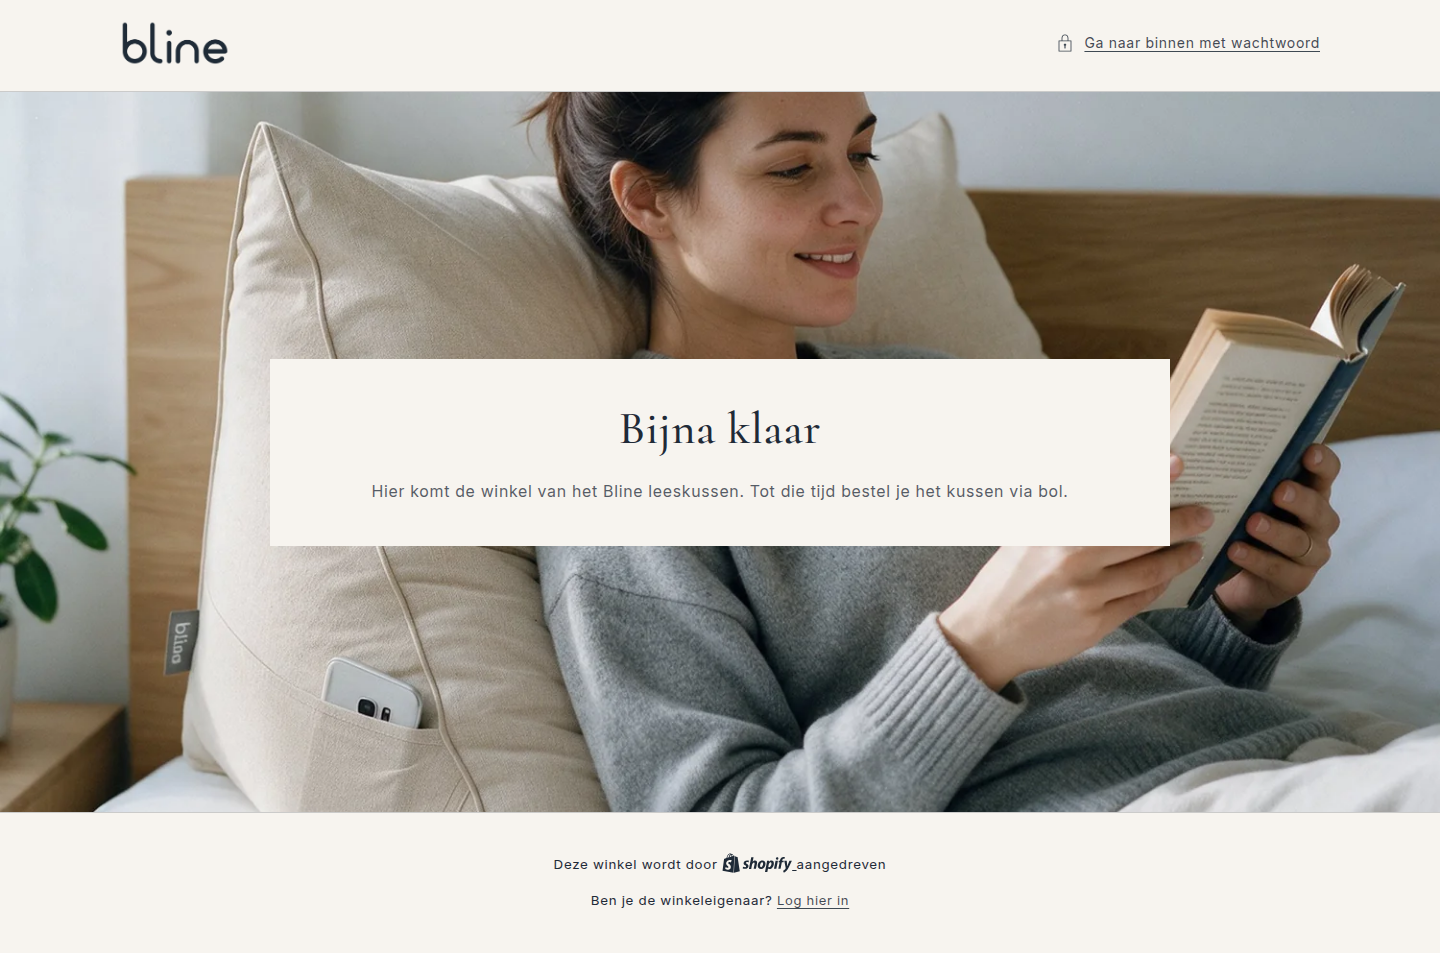
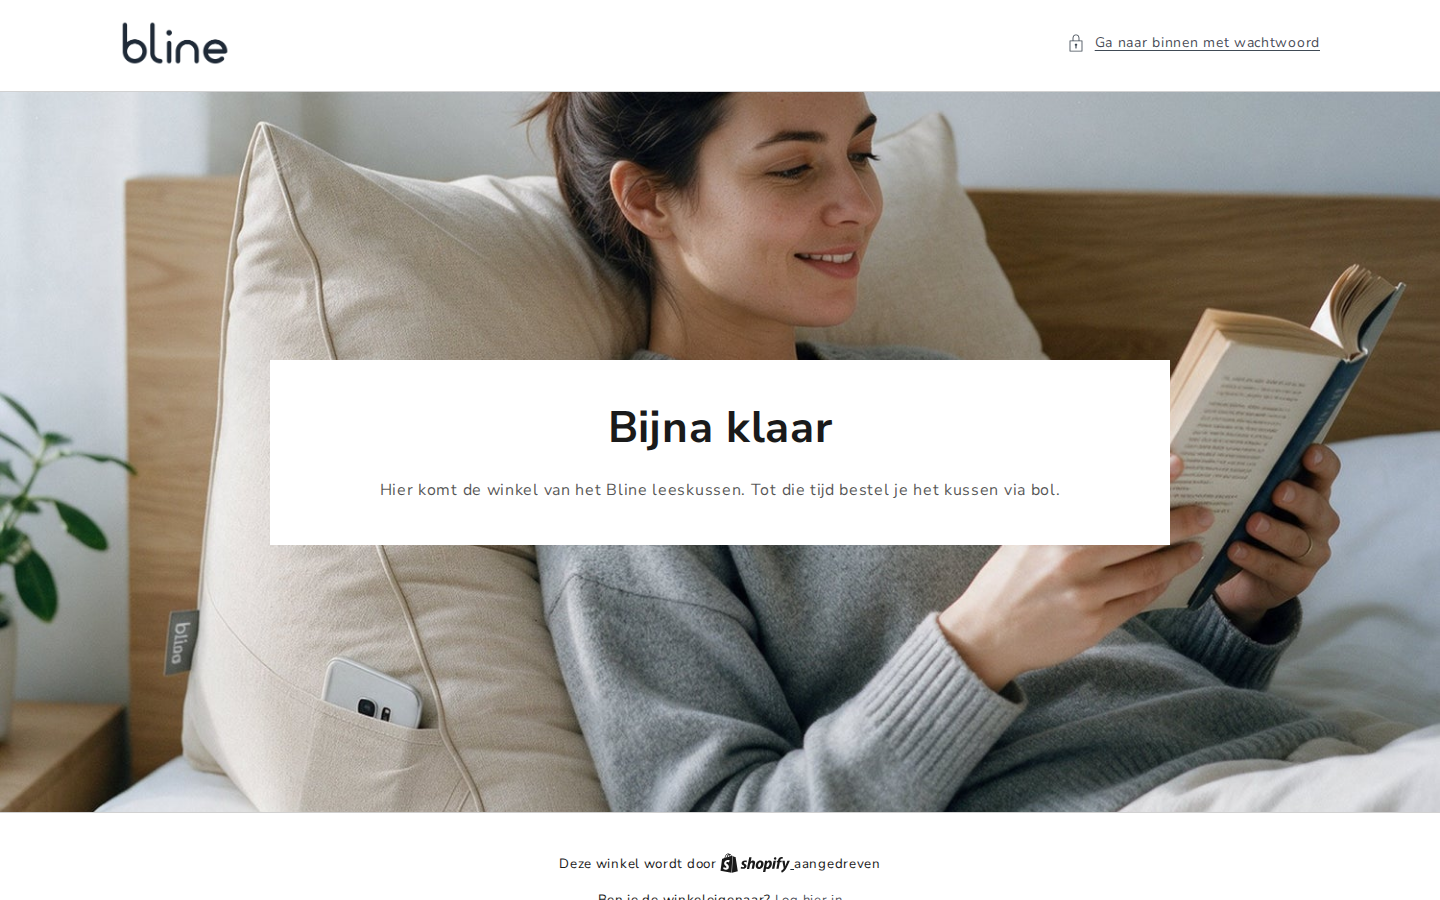
Bline shop: restyle naar wit, inktblauw en Nunito Sans, teksten in winkeltaal
Dawn: kleurschema's wit en lichtgrijs met inktblauw voor balk, knoppen en
voettekst; Nunito Sans; knoppen 6 px. Homepage met foto, korte kop en Shop nu;
productpagina met vier vinkjes, korte beschrijving en kenmerken als lijst.
Balk met bol-score en bron in het logboek. Teksten en logboek sessie 5.

Claude-Session: https://claude.ai/code/session_01SuGHz7dsGz2S2x1mKQE8CB

diff --git a/reports/bijlagen/Bline shop teksten.md b/reports/bijlagen/Bline shop teksten.md
@@ -1,28 +1,29 @@
-# Bline shop: teksten (stand 5 oktober 2026)
+# Bline shop: teksten (stand 5 oktober 2026, sessie 5)
 
-Alle teksten zoals ze in de winkel staan. Bron voor de stijlcontrole. Geschreven volgens de schrijfstijlgids (hoofdstuk 7 van `webshop_themas_en_schrijfstijl.md`).
+Alle teksten zoals ze in de winkel staan. Bron voor de stijlcontrole. Geschreven volgens de schrijfstijlgids (hoofdstuk 7 van `webshop_themas_en_schrijfstijl.md`) en de aanvulling "Taal" in `look_and_feel_env_stores.md`: kort, winkeltaal, feiten in lijstjes.
 
 ## Aankondigingsbalk
 
-Gratis verzending in Nederland en België. Binnen 1-2 werkdagen in huis.
+GRATIS VERZENDING NL EN BE | BINNEN 1-2 WERKDAGEN IN HUIS | 4,5 UIT 5 OP BOL.COM
+
+Bron van de score: bol Ratings API, 05-10-2026, 13 reviews op de productfamilie (9 x 5, 3 x 4, 1 x 2), gemiddeld 4,54.
+
+## Vier vinkjes (onder de knop, en als balk op de homepage)
+
+- Gratis verzending in NL en BE
+- Binnen 1-2 werkdagen in huis
+- Hoes wasbaar op 30 °C
+- 14 dagen bedenktijd
 
 ## Homepage
 
-Paginatitel: Bline leeskussen | Lezen in bed, zonder kussenfort
+Paginatitel: Leeskussen met vak voor je boek | Bline
 
-Metabeschrijving: Leeskussen met 3,8 kg traagschuim, een wasbare katoenen hoes en een vak voor je boek. Vijf kleuren. Gratis verzending in NL en BE.
+Metabeschrijving: Leeskussen met 3,8 kg traagschuim en een katoenen hoes die in de was kan. Vijf kleuren. Gratis verzending in NL en BE, binnen 1-2 werkdagen in huis.
 
-Kop: Lezen in bed, zonder kussenfort.
+Grote foto (beige, vrouw met boek). Kop: RECHTOP LEZEN IN BED. Knop: Shop nu (naar de productpagina).
 
-Ondertitel: Een leeskussen met een vak voor je boek. In vijf kleuren.
-
-**Zondagochtend.** Koffie erbij, boek open. Je zit rechtop en hoeft niet steeds je kussens op te schudden.
-
-**Het blijft staan.** Een wig van 65 cm breed met 3,8 kg traagschuim. Opzij zit een vak voor je boek of je bril.
-
-**Wat je krijgt.** Het kussen met een katoenen hoes in je kleur. Gratis bezorgd in Nederland en België, binnen 1-2 werkdagen.
-
-Daarna: het leeskussen als uitgelicht product, het blok "Waarom dit kussen" en zes vragen (sessie 3).
+Daarna: het leeskussen als uitgelicht product, de vier vinkjes, "Kenmerken" (lijst uit de metafields) en "Veelgestelde vragen" (zes vragen, zie productpagina).
 
 ## Productpagina leeskussen
 
@@ -30,15 +31,36 @@ Paginatitel: Leeskussen met vak voor je boek | Bline
 
 Metabeschrijving: Leeskussen van 65 x 50 x 45 cm met 3,8 kg traagschuim en een katoenen hoes die in de was kan. Vijf kleuren. Gratis verzending in NL en BE.
 
-Je kent het. Twee kussens achter je, eentje erbij gepropt, en na tien minuten lig je weer half. Dit kussen blijft staan.
+Volgorde: titel, prijs, kleurkeuze, knop "In winkelwagen", vier vinkjes, "Beschrijving", "Kenmerken".
 
-Het is een wig van 65 cm breed en 50 cm hoog, met 3,8 kg traagschuim erin. Leun je ertegenaan, dan zak je er niet doorheen. Opzij zit een vak voor je boek of je bril.
+**Beschrijving**
 
-De hoes is van katoen en gaat met een onzichtbare rits los. Hij kan op 30 °C in de wasmachine. Een tweede hoes is los te koop.
+Een stevig leeskussen met een vak opzij voor je boek, bril of telefoon. Binnenin zit 3,8 kg traagschuim, dus het kussen blijft staan als je leunt. De katoenen hoes gaat er met een rits af en kan op 30 °C in de was. Rechtop lezen in bed, zonder gedoe. Net uitgepakt? Laat het 24 tot 48 uur luchten.
 
-Net uitgepakt? Laat het kussen 24 tot 48 uur luchten en schud het een keer op.
+**Kenmerken** (uit de metafields)
 
-Hij past niet in je handbagage. Wel achter je in bed.
+- Afmetingen: 65 x 50 x 45 cm (breed x hoog x diep)
+- Vulling: Traagschuim (memory foam), stevig
+- Hoes: 100% katoen, 400 TC; onzichtbare rits, volledig afneembaar; zijvak voor boek, bril of telefoon
+- Wassen: hoes machinewas 30 °C, normaal programma; niet bleken; niet in de droger
+- Gewicht: 3,9 kg, waarvan 3,8 kg vulling
+- In de doos: 1 leeskussen met hoes in de gekozen kleur; gebruiks- en wasinstructie
+
+**Goed om te weten** (grijs vlak)
+
+- Stevig: 3,8 kg traagschuim. Je zakt er niet doorheen als je leunt.
+- Wasbare hoes: Rits de hoes eraf en was hem op 30 °C. Een tweede hoes is los te koop.
+- Maat: 65 cm breed, 50 cm hoog en 45 cm diep. Meet je bed even op voor je bestelt.
+- Kleur: Vijf kleuren. Valt de kleur thuis anders uit, dan heb je 14 dagen bedenktijd.
+
+**Veelgestelde vragen** (ook op de homepage en bij de hoes)
+
+- Hoe snel heb ik het kussen? Binnen 1-2 werkdagen, in Nederland en België. Verzending is gratis.
+- Kan de hoes in de was? Ja, op 30 °C, normaal programma. Niet bleken en niet in de droger.
+- Hoe stevig is het kussen? Stevig: 3,8 kg traagschuim. Laat het na het uitpakken 24 tot 48 uur luchten en schud het op.
+- Is er een losse hoes? Ja, in dezelfde vijf kleuren.
+- Wat zit er in de doos? Het leeskussen met de hoes in je kleur en een gebruiks- en wasinstructie.
+- Kan ik het terugsturen? Ja, binnen 14 dagen na ontvangst. Mail ons, dan krijg je het retouradres. De kosten voor het terugsturen zijn voor jou.
 
 ## Productpagina losse hoes
 
@@ -46,11 +68,11 @@ Paginatitel: Losse hoes voor het leeskussen | Bline
 
 Metabeschrijving: Katoenen hoes (400 TC) met onzichtbare rits voor het Bline leeskussen. Wasbaar op 30 °C. Vijf kleuren. Gratis verzending in NL en BE.
 
-Een losse hoes voor het Bline leeskussen. Handig als de ene in de was zit, of als je een andere kleur wilt.
+Zelfde opbouw als het leeskussen (vier vinkjes, Beschrijving, Kenmerken, vragen), zonder "Goed om te weten".
 
-De hoes is van 100% katoen (400 TC) en heeft een onzichtbare rits. Opzij zit hetzelfde vak voor je boek of je bril. Wassen kan op 30 °C, normaal programma. Niet bleken en niet in de droger.
+**Beschrijving**
 
-Alleen de hoes, zonder kussen.
+Een losse hoes voor het Bline leeskussen, in vijf kleuren. Van 100% katoen (400 TC), met een onzichtbare rits en een vak opzij. Wasbaar op 30 °C. Handig om te wisselen als de andere in de was zit. Alleen de hoes, zonder kussen.
 
 ## Pagina Over Bline (/pages/over-bline)
 
@@ -58,21 +80,22 @@ Paginatitel: Over Bline | Bline
 
 Metabeschrijving: Bline is een klein bedrijf uit Borne. We verkopen een leeskussen met een wasbare hoes, in vijf kleuren.
 
-Lezen in bed klinkt gezellig. Tot je voor de derde keer je kussens opschudt en het hoofdstuk nog steeds niet uit is.
-
-Daarom verkopen we dit leeskussen. Een wig met 3,8 kg traagschuim, die blijft staan als je ertegenaan leunt. De hoes gaat eraf en kan in de was.
+Bline verkoopt een leeskussen met een vak voor je boek. We zijn een klein bedrijf uit Borne, in Overijssel.
 
 #### Wie we zijn
 
-Bline is een klein bedrijf uit Borne, in Overijssel. Het kussen verkopen we al via bol. Nu kun je het ook hier bestellen, bij ons zelf.
+Het kussen verkopen we al via bol. Nu kun je het ook hier bij ons bestellen.
 
-De kussens liggen in een magazijn in Vianen. Daar pakken ze je bestelling in en geven ze hem mee aan de bezorger.
+De kussens liggen in een magazijn in Vianen. Daar wordt je bestelling ingepakt en meegegeven aan de bezorger.
 
-#### Wat we beloven
+#### Wat je van ons krijgt
 
-Alleen wat we kunnen nakomen. Je kussen is binnen 1-2 werkdagen in huis. Bevalt hij niet, dan heb je 14 dagen om van gedachten te veranderen.
+- Gratis verzending in NL en BE
+- Binnen 1-2 werkdagen in huis
+- Hoes wasbaar op 30 °C
+- 14 dagen bedenktijd
 
-Een vraag of een opmerking? Mail naar mail@blinesleep.nl. Je krijgt antwoord van een mens.
+Een vraag? Mail naar mail@blinesleep.nl. We antwoorden op werkdagen.
 
 ## Pagina Verzending (/pages/verzending)
 
@@ -80,7 +103,9 @@ Paginatitel: Verzending | Bline
 
 Metabeschrijving: Gratis verzending in Nederland en België. Je bestelling is binnen 1-2 werkdagen in huis, met track & trace.
 
-Verzending is gratis in Nederland en België. Je bestelling is binnen 1-2 werkdagen in huis.
+- Gratis verzending in Nederland en België
+- Binnen 1-2 werkdagen in huis
+- Met track & trace
 
 #### Hoe het gaat
 
@@ -98,7 +123,7 @@ Via de track & trace kies je vaak een ander moment of een afhaalpunt. Dat versch
 
 #### Pakket beschadigd?
 
-Maak een foto en mail die naar mail@blinesleep.nl, met je bestelnummer. Dan lossen we het op.
+Maak een foto en mail die naar mail@blinesleep.nl, met je bestelnummer. We zoeken dan samen een oplossing.
 
 #### Goed om te weten
 
@@ -110,7 +135,7 @@ Paginatitel: Retourneren | Bline
 
 Metabeschrijving: Je hebt 14 dagen bedenktijd. Zo stuur je je leeskussen terug en krijg je je geld binnen 14 dagen terug.
 
-Valt het kussen thuis anders uit dan je dacht? Je hebt 14 dagen bedenktijd, vanaf de dag dat je het ontvangt.
+Je hebt 14 dagen bedenktijd, vanaf de dag dat je het kussen ontvangt.
 
 #### Zo stuur je iets terug
 

diff --git a/reports/Bline shop opbouw logboek.md b/reports/Bline shop opbouw logboek.md
@@ -365,3 +365,88 @@ Shopify heeft geen API voor de meldingen. De standaard Nederlandse meldingen geb
 9. **Cookiemelding**: Shopify Customer Privacy-banner voor de EU aanzetten (Instellingen > Klantprivacy).
 10. OEKO-TEX-nummer, gewicht van de losse hoes, bol-reviewscore met bron (voor de homepage).
 11. **"Live"**: wachtwoord uit. Pas daarna Merchant Center en advertenties, met apart akkoord.
+
+## 5 oktober 2026, sessie 5: restyle naar de stijl van echte webshops
+
+Opdracht: de tabel "Besluit voor Bline" uit `research_notes/Bline Sleep risicos en voorbeelden/look_and_feel_env_stores.md` volledig uitvoeren in het gepubliceerde Dawn-thema, en de teksten herschrijven volgens "Taal: aanvulling op de schrijfstijlgids".
+
+Toegang: de vaste winkelnaam die Joost doorgaf (niet de waarde in `BLINE_SHOPIFY_STORE`), sleutel via client credentials met `BLINE_SHOPIFY_CLIENT_ID` en `BLINE_SHOPIFY_CLIENT_SECRET`. Alleen de namen gecontroleerd. Geen SHOPIFY_*- of BOL_*-variabelen gebruikt. Vooraf een kopie gemaakt van alle thema-bestanden die zijn aangepast.
+
+### Kleuren en letter (Dawn, thema-instellingen)
+
+| Kleurschema | Achtergrond | Tekst | Knop | Gebruikt voor |
+|---|---|---|---|---|
+| scheme-1 | #FFFFFF | #1A1A1A | #1F2A37, witte tekst | standaard, product, header |
+| scheme-2 | #F4F4F2 | #1A1A1A | #1F2A37, witte tekst | tweede vlak (vinkjes, "Goed om te weten", vragen) |
+| scheme-3 | #1F2A37 | #FFFFFF | wit | aankondigingsbalk en voettekst |
+| scheme-4 | #FFFFFF | #1A1A1A | #1F2A37 | kaarten, meelopende knop |
+| scheme-5 | #1F2A37 | #FFFFFF | wit | labels (was salie #5F6E58) |
+| scheme-6 (nieuw) | #1F2A37 | #FFFFFF | #1F2A37, witte tekst | grote foto op de homepage: witte kop op de foto, inktblauwe knop |
+
+- Crème (#F7F4EF, #FCFAF6), zand (#F1EBE1) en salie (#5F6E58) staan nergens meer, ook niet in `bline.css` of de eigen secties (gecontroleerd met een zoekopdracht over alle thema-bestanden). Goud kwam in het thema niet voor. De kleurcodes van de kleurbolletjes (Wit, Beige, Blauw, Grijs, Zwart) zijn productkleuren en blijven.
+- Letter: **Nunito Sans** uit de Shopify-bibliotheek (bestaat, gecontroleerd op de wachtwoordpagina). Koppen `nunito_sans_n7` (700), tekst `nunito_sans_n4`. Cormorant en Inter zijn weg.
+- Korte koppen in hoofdletters met wat letterafstand: de kop op de foto, sectiekoppen (Kenmerken, Veelgestelde vragen, Goed om te weten, Beschrijving), koppen in de voettekst en de balk.
+- Knoppen: 6 px hoeken, effen inktblauw met witte tekst, geen rand. Kleurkeuze-knoppen, invoervelden, kaarten, beelden en labels ook 6 px (was 14 en 40).
+
+### Homepage
+
+Volgorde nu: grote foto, product, vier vinkjes, kenmerken, vragen.
+
+- Grote foto (beige, vrouw met boek) met kop **RECHTOP LEZEN IN BED** en één knop **Shop nu** naar de productpagina. Ondertitel weg. Witte tekst op de foto (30% donkere laag), ook op mobiel.
+- De drie vetgedrukte blokken (Zondagochtend / Het blijft staan / Wat je krijgt) zijn weg, net als "Waarom dit kussen".
+- Het leeskussen als uitgelicht product, daarna een grijze balk met de vier vinkjes, daarna "Kenmerken" (nieuwe sectie `bline-kenmerken`, leest de metafields) en zes korte vragen.
+- Paginatitel "Leeskussen met vak voor je boek | Bline" (was "... zonder kussenfort").
+
+### Aankondigingsbalk
+
+`GRATIS VERZENDING NL EN BE | BINNEN 1-2 WERKDAGEN IN HUIS | 4,5 UIT 5 OP BOL.COM`, in hoofdletters, vet, op inktblauw.
+
+**Bron van de score:** bol Ratings API, opgevraagd 05-10-2026: 13 reviews op de productfamilie van het Bline leeskussen. Verdeling 9 x 5 sterren, 3 x 4, 1 x 2. Gemiddeld 4,54, afgerond 4,5 uit 5. Geen reviewteksten overgenomen. Bij elke nieuwe stand van de reviews opnieuw nalezen.
+
+### Productpagina (leeskussen en hoes)
+
+- Volgorde: titel, prijs, kleurkeuze, knop, **vier vinkjes** (Gratis verzending in NL en BE / Binnen 1-2 werkdagen in huis / Hoes wasbaar op 30 °C / 14 dagen bedenktijd), **Beschrijving** (5 korte zinnen), **Kenmerken** als lijst uit de metafields.
+- De losse levertijdregel met vrachtwagen boven de kleurkeuze is weg, want hij herhaalde het tweede vinkje. Het tweede vinkje leest dezelfde instelling (thema-instellingen > Bline > levertijdtekst). De snippet `bline-levertijd` met de datumregel blijft bestaan, maar staat nergens meer. Gaat de datumregel later aan (akkoordpunt 5), dan komt hij in de plaats van het tweede vinkje.
+- De aparte tabel "Specificaties" is vervangen door de lijst "Kenmerken" in de productkolom. De oude sectie `bline-specificaties` is verwijderd.
+- "Waarom dit kussen" heet nu "Goed om te weten", met korte koppen (Stevig, Wasbare hoes, Maat, Kleur) en één of twee zinnen per punt.
+- Vragen ingekort tot één of twee zinnen. De hoes toont dezelfde zes vragen.
+
+### Teksten
+
+Herschreven (alleen toon, zie `reports/bijlagen/Bline shop teksten.md`):
+
+| Waar | Weg | Nu |
+|---|---|---|
+| Beschrijving leeskussen | "Je kent het. Twee kussens achter je...", "Hij past niet in je handbagage. Wel achter je in bed." | 5 korte zinnen met de feiten |
+| Beschrijving hoes | 3 alinea's | 5 korte zinnen |
+| Over Bline | "Lezen in bed klinkt gezellig. Tot je...", "Je krijgt antwoord van een mens." | wie we zijn, vier vinkjes als lijst, "We antwoorden op werkdagen." |
+| Verzending | openingszin | lijstje (gratis NL en BE, 1-2 werkdagen, track & trace); "Dan lossen we het op" wordt "We zoeken dan samen een oplossing" |
+| Retourneren | "Valt het kussen thuis anders uit dan je dacht?" | "Je hebt 14 dagen bedenktijd, vanaf de dag dat je het kussen ontvangt." |
+| Homepage | drieluik, ondertitel, "kussenfort" | kop van 4 woorden en "Shop nu" |
+
+Juridische inhoud niet aangeraakt: algemene voorwaarden, retourbeleid, verzendbeleid, contactgegevens, privacy, het modelformulier en de alinea's "Kosten", "Je geld terug", "Uitproberen mag" en "Goed om te weten" (levertermijn 30 dagen) zijn gelijk gebleven.
+
+### Stijlcontrole (opnieuw)
+
+Script over producten (titel, beschrijving, SEO), pagina's, collecties, beleid, de homepage- en productsjablonen, de vragenpagina, de wachtwoordpagina, balk, voettekst, thema-instellingen, de eigen secties en snippets en het Nederlandse taalbestand. Gezocht op de schrapwoorden uit regel 4 van de gids, op de AI-zinnen uit het besluit ("Je kent het", handbagage, "van een mens", "klinkt gezellig", kussenfort, "eerlijk"), op gedachtestreepjes (lang en half), op "u" en "uw", en op pijn, klacht, ergonomisch, rug, nek, houding, gezond, medisch.
+
+| Treffer | Besluit |
+|---|---|
+| "klacht" en "boekhouding" (pagina Privacy) | Blijft, zelfde toelichting als sessie 4. |
+| "Klachten" (voorwaarden, art. 9) | Blijft, wettelijk verplicht (art. 6:230m BW). |
+| "perfect", "ontdekkingen", "klachten" (privacybeleid in Instellingen > Beleid) | Dat is nog de automatische Shopify-tekst; Joost moet het automatisch beheer uitzetten (zie sessie 4, punt 1). Niet onze tekst. |
+
+Verder geen treffers. Geen "Translation missing": de nieuwe secties en snippets gebruiken geen vertaalsleutels, het taalbestand is niet gewijzigd, en de wachtwoordpagina bevat de tekst niet.
+
+### Screenshots
+
+`mockups/blinesleep/screenshots/shop/wachtwoordpagina_desktop.png` en `_mobiel.png` opnieuw gemaakt: witte achtergrond, Nunito Sans 700, geen crème meer. Home en productpagina kon ik weer niet fotograferen: alles staat achter het wachtwoord (zie sessie 4). Shopify heeft alle bestanden zonder fouten opgeslagen.
+
+### Niet gedaan, bewust
+
+- Wachtwoord blijft aan, geen prijzen gewijzigd, geen mails, geen betaalinstellingen, geen apps, geen nieuwe beelden.
+
+### Wacht op Joost
+
+1. Home en productpagina bekijken in Online Store > Thema's > Dawn > Aanpassen (mobiel en desktop), of het winkelwachtwoord als omgevingsvariabele geven voor screenshots en Lighthouse.
+2. De overige punten uit sessie 4 blijven open (privacybeleid, telefoonnummer en retouradres, e-mailmeldingen, domeinen, Payments, ChannelDock, Google- en Meta-app, cookiemelding, "live").
